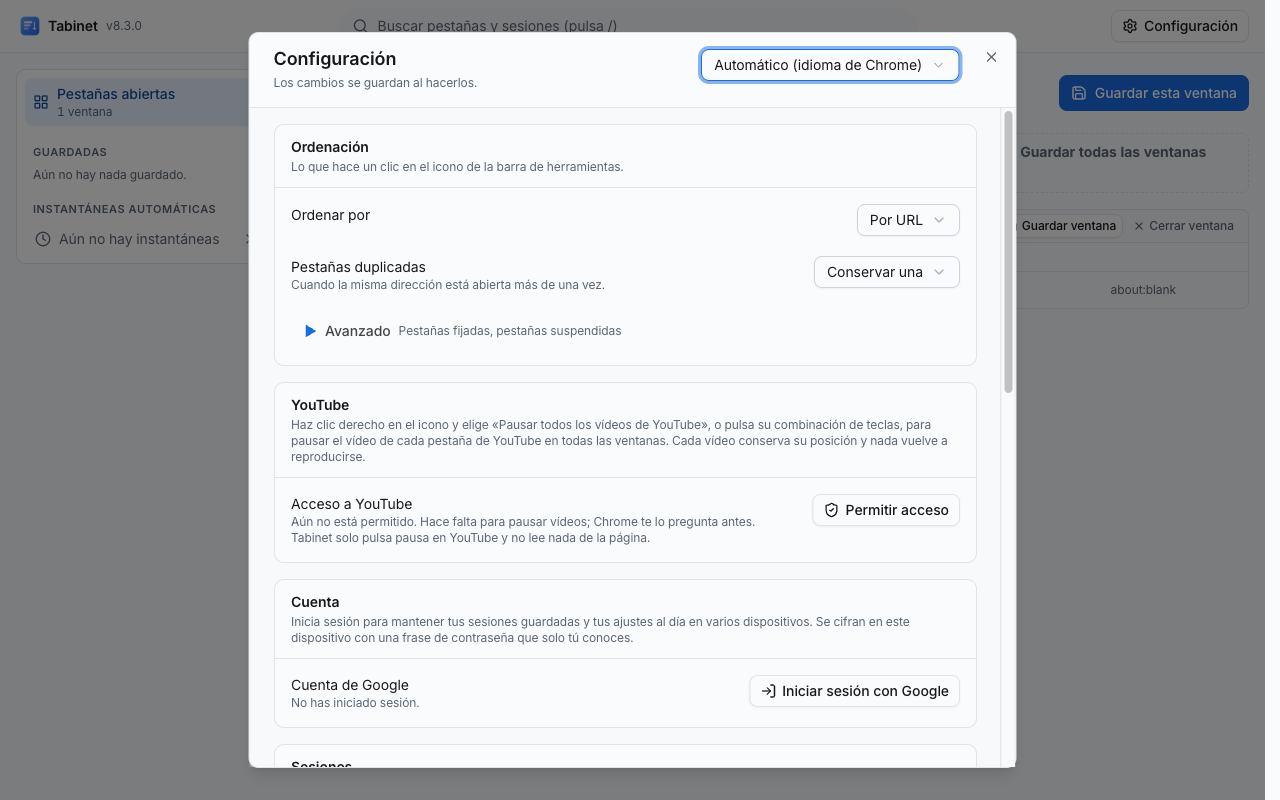
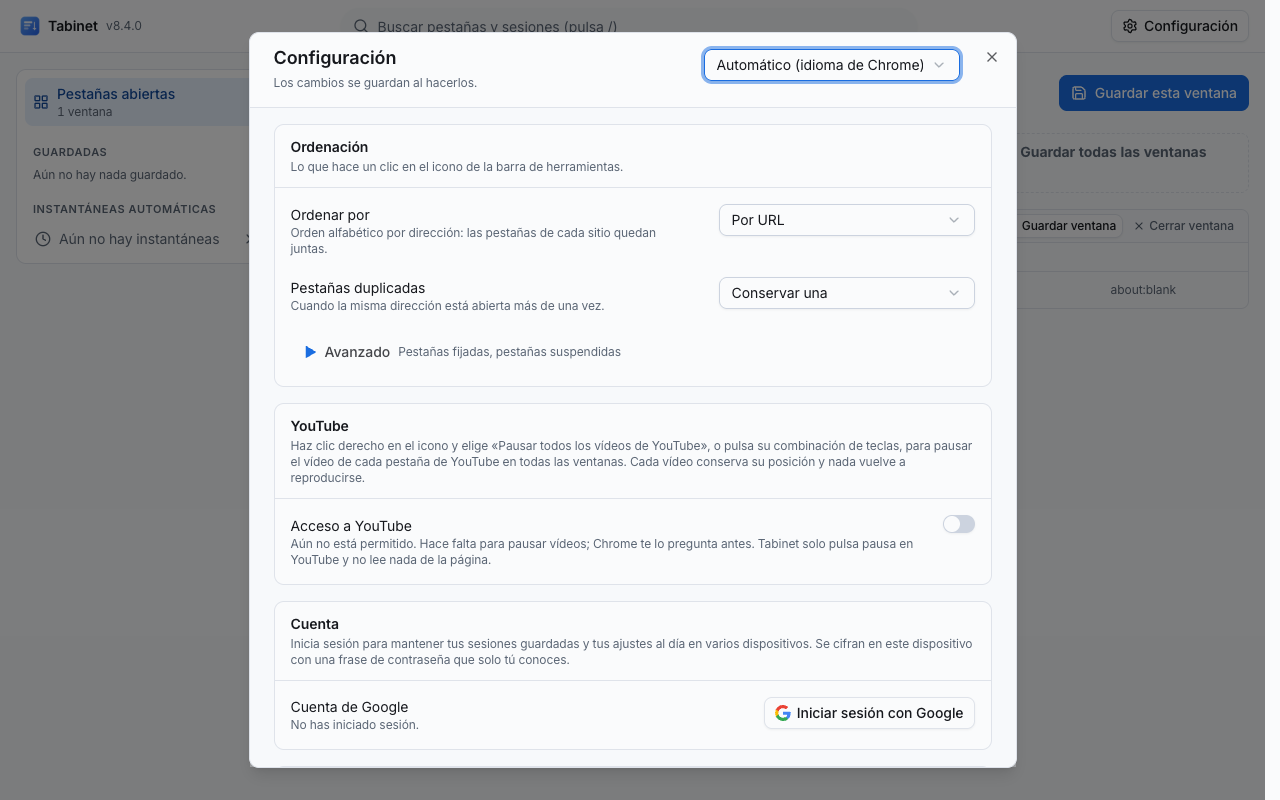
chore: release v8.4.0 (#198)
Fixes #197

- Version 8.4.0.
- Store screenshots (Settings + 4 dashboard shots) regenerated in en,
ko, es, ja; every frame checked, fixture data only.
- Screenshots now run headless: `scripts/e2e/browser.ts` launches
Playwright's `chromium` channel when headless (the default headless
shell cannot load an extension). The smoke test passes headless on macOS
too.
- `prepare-registration` builds in the `store-screenshots` mode, where
`canSignInHere()` is true, so Settings shows Sign in with Google as the
store build does instead of the unpacked-build hint.
- Privacy policy Last Updated: November 10, 2026 (4 languages; the
YouTube wording changed in #189).

diff --git a/scripts/e2e/browser.ts b/scripts/e2e/browser.ts
@@ -221,13 +221,17 @@ async function workerWithApis(context: BrowserContext, timeout: number): Promise
 export async function launchExtension(options: LaunchOptions): Promise<ExtensionSession> {
   const { dist, args = [], preferHeaded = false, locale = 'en' } = options;
   const executablePath = resolveChromiumExecutable();
+  const headless = resolveHeadless(preferHeaded);
   setLanguageEnv(locale);
   // Chrome reads AppleLanguages once, at startup, so the default is put back as soon as it is up.
   const restoreMacLanguage = pinMacLanguage(locale);
   const context = await chromium
     .launchPersistentContext('', {
       ...(executablePath === undefined ? {} : { executablePath }),
-      headless: resolveHeadless(preferHeaded),
+      // Playwright's default headless browser is chromium-headless-shell, which cannot load an
+      // extension; the `chromium` channel runs the full browser in its new headless mode instead.
+      ...(executablePath === undefined && headless ? { channel: 'chromium' } : {}),
+      headless,
       args: [
         `--disable-extensions-except=${dist}`,
         `--load-extension=${dist}`,

diff --git a/src/lib/cloud-config.ts b/src/lib/cloud-config.ts
@@ -35,5 +35,10 @@ export function overrideCloudSyncConfig(getter?: () => CloudSyncConfig): void {
  * disables the button rather than letting the click fail.
  */
 export function canSignInHere(extensionId: string = chrome.runtime.id): boolean {
+  // The store screenshots (scripts/prepare-registration.ts) are shot from an unpacked build of
+  // this mode and must show the store build's Settings; Vite drops this line from every other build.
+  if (import.meta.env.MODE === 'store-screenshots') {
+    return true;
+  }
   return extensionId === STORE_EXTENSION_ID;
 }

diff --git a/scripts/prepare-registration.ts b/scripts/prepare-registration.ts
@@ -372,7 +372,9 @@ class Preparation {
       }
       return;
     }
-    execSync('pnpm build', { cwd: ROOT, stdio: 'inherit' });
+    // `store-screenshots`: an unpacked copy that shows Settings as the store build does (Google
+    // sign-in available, see canSignInHere). release-it rebuilds dist/ normally before the zip.
+    execSync('pnpm build --mode store-screenshots', { cwd: ROOT, stdio: 'inherit' });
     console.log('Build complete.');
   }
 

diff --git a/AGENTS.md b/AGENTS.md
@@ -616,7 +616,7 @@ The extension speaks English (`en`, the manifest's `default_locale`), Korean (`k
 
 **What guards it.** `src/tests/i18n.test.ts`: exactly the shipped folders; every language has every English key and nothing else (plural forms aside), the same `$n`, no empty message, no long dash; every English entry has a description and a Chrome-valid name; every `_one`/`_many` has its `_other`; every file's `localeCode` names its own language. `src/tests/chrome-fake.ts` implements `chrome.i18n` by reading `public/_locales` (`getMessage` with substitutions and Chrome's per-key fallback to English, `getUILanguage`), English by default, and `setUiLanguage(code)` switches a test to another language (`'fr'` for one that is not shipped), so tests compare real English output and can check another language. `readLocaleFile(code)` is the catalog reader tests pass to `applyUiLanguage()`, and `fetchPackagedFile` (installed with `vi.stubGlobal('fetch', ...)`) serves the same files at the fake's `chrome.runtime.getURL()` addresses for code that uses the default reader (the worker). `src/tests/i18n.test.ts` checks that, for every key of every language, the override returns exactly what the fake's `getMessage` returns in that language, and that after the named placeholders are expanded every `$` in every message is `$$` or `$1`..`$9` (real Chrome drops an invalid `$x`, `$0` or a trailing lone `$`, which the override and the fake keep, so no message may contain one); `src/tests/ui-language.test.ts` covers the stored setting. `src/tests/store-listing.test.ts`: every language's store Description and Summary (below).
 
-**The Web Store listing.** `scripts/store-listing.ts` holds, at its top, everything typed into the dashboard: `STORE_DESCRIPTIONS` (one plain-text Description per language, pasted as it is: no Markdown, no long dash, at most 500 characters, the owner's limit; details go to the website and README), the product details, the privacy answers and the reviewers' test instructions, all other text in English. Quoted menu items and buttons use that language's `messages.json` wording (the test checks `assembleName` in each Description and every quoted label in `TEST_INSTRUCTIONS`), and a change to the English Description reaches the three translations in the same edit. Title and Summary are not copied anywhere: the store reads them from the package (`extName` / `extDescription`, Summary at most 132). `src/tests/store-listing.test.ts` checks all of it. `pnpm store:bundle` writes it into `release/store-<version>/SUBMIT.md` with `screenshots/<code>/` folders (a language without its own shows the English ones). `LOCALES=en,ko,es,ja pnpm exec tsx scripts/prepare-registration.ts` shoots the screenshots per language (it opens a visible browser: ask the owner first).
+**The Web Store listing.** `scripts/store-listing.ts` holds, at its top, everything typed into the dashboard: `STORE_DESCRIPTIONS` (one plain-text Description per language, pasted as it is: no Markdown, no long dash, at most 500 characters, the owner's limit; details go to the website and README), the product details, the privacy answers and the reviewers' test instructions, all other text in English. Quoted menu items and buttons use that language's `messages.json` wording (the test checks `assembleName` in each Description and every quoted label in `TEST_INSTRUCTIONS`), and a change to the English Description reaches the three translations in the same edit. Title and Summary are not copied anywhere: the store reads them from the package (`extName` / `extDescription`, Summary at most 132). `src/tests/store-listing.test.ts` checks all of it. `pnpm store:bundle` writes it into `release/store-<version>/SUBMIT.md` with `screenshots/<code>/` folders (a language without its own shows the English ones). `LOCALES=en,ko,es,ja pnpm exec tsx scripts/prepare-registration.ts` shoots the screenshots per language (headless by default: Playwright's `chromium` channel, since the default headless shell cannot load an extension; it builds `dist/` in the `store-screenshots` mode, where Settings shows Google sign-in as the store build does).
 
 ---
 

diff --git a/site/src/privacy/es.md b/site/src/privacy/es.md
@@ -1,6 +1,6 @@
 # Política de privacidad - Tabinet
 
-Última actualización: 2 de noviembre de 2026
+Última actualización: 10 de noviembre de 2026
 
 ## Resumen
 

diff --git a/site/src/privacy/ja.md b/site/src/privacy/ja.md
@@ -1,6 +1,6 @@
 # プライバシーポリシー - Tabinet
 
-最終更新日: 2026年11月2日
+最終更新日: 2026年11月10日
 
 ## 概要
 

diff --git a/site/src/privacy/ko.md b/site/src/privacy/ko.md
@@ -1,6 +1,6 @@
 # 개인정보처리방침 - Tabinet
 
-최종 수정일: 2026년 11월 2일
+최종 수정일: 2026년 11월 10일
 
 ## 개요
 

diff --git a/PRIVACY_POLICY.md b/PRIVACY_POLICY.md
@@ -1,6 +1,6 @@
 # Privacy Policy - Tabinet
 
-Last Updated: November 2, 2026
+Last Updated: November 10, 2026
 
 ## Overview
 
